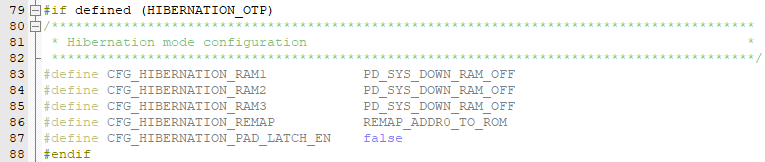
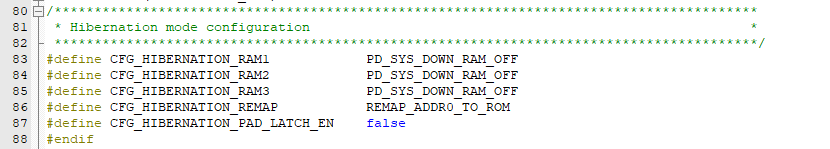
readme modified

Changed region(s): [[0.0, 0.0, 1.0, 0.9933], [0.9621, 0.2416, 0.9922, 0.2685]]

diff --git a/connectivity/hibernation_and_stateaware_hibernation/src/user_hibernation.h b/connectivity/hibernation_and_stateaware_hibernation/src/user_hibernation.h
@@ -83,7 +83,7 @@
 #define CFG_HIBERNATION_RAM1            PD_SYS_DOWN_RAM_OFF
 #define CFG_HIBERNATION_RAM2            PD_SYS_DOWN_RAM_OFF
 #define CFG_HIBERNATION_RAM3            PD_SYS_DOWN_RAM_OFF
-#define CFG_HIBERNATION_REMAP           REMAP_ADDR0_TO_OTP
+#define CFG_HIBERNATION_REMAP           REMAP_ADDR0_TO_ROM
 #define CFG_HIBERNATION_PAD_LATCH_EN    false
 #endif
 
